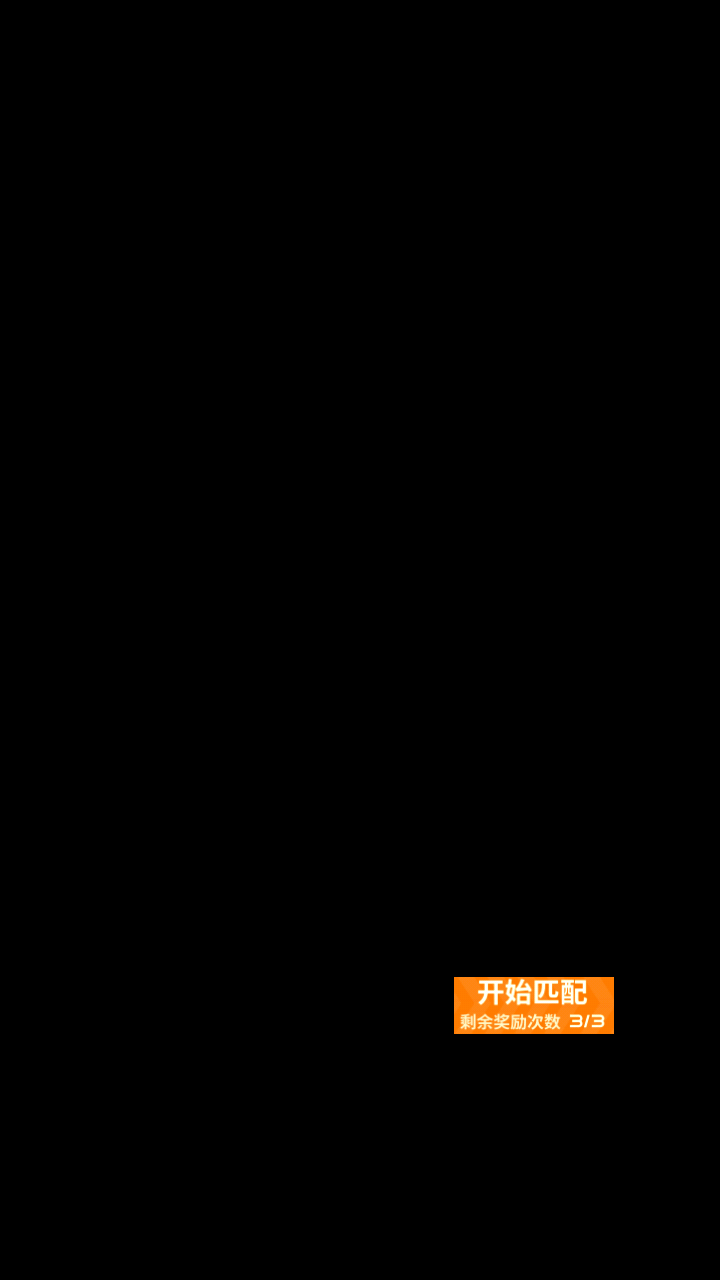
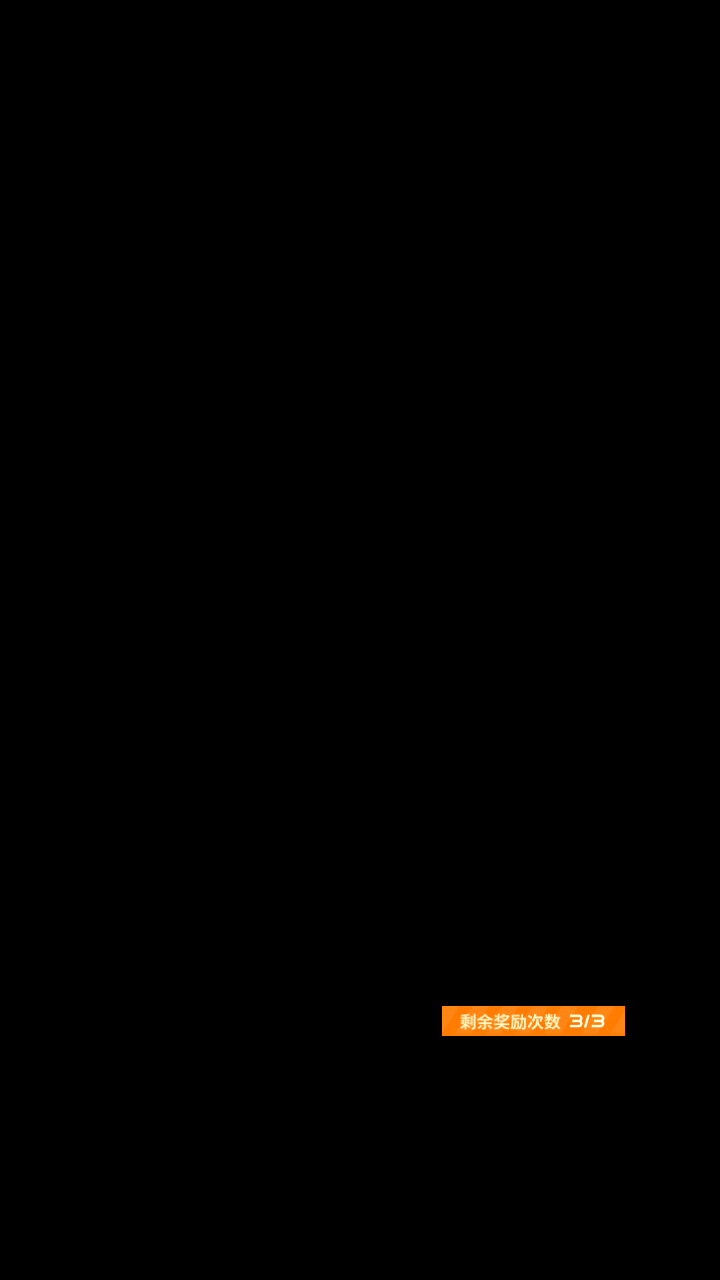
优化协同作战次数检查

Changed region(s): [[0.6111, 0.75, 0.8861, 0.8125]]

diff --git a/module/coop/assets.py b/module/coop/assets.py
@@ -16,5 +16,5 @@ DIFFICULTY_CONFIRM = Button(area={'cn': (334, 854, 385, 877)}, color={'cn': (120
 DIFFICULTY_NORMAL = Button(area={'cn': (180, 611, 248, 643)}, color={'cn': (155, 223, 255)}, button={'cn': (180, 611, 248, 643)}, file={'cn': './assets/cn/coop/DIFFICULTY_NORMAL.png'})
 DIFFICULTY_NORMAL_NOT_CHECKED = Button(area={'cn': (181, 611, 247, 643)}, color={'cn': (192, 193, 192)}, button={'cn': (181, 611, 247, 643)}, file={'cn': './assets/cn/coop/DIFFICULTY_NORMAL_NOT_CHECKED.png'})
 EVENT_BANNER = Button(area={'cn': (29, 121, 267, 187)}, color={'cn': (116, 74, 67)}, button={'cn': (29, 121, 267, 187)}, file={'cn': './assets/cn/coop/EVENT_BANNER.png'})
-FREE_OPPORTUNITY_CHECK = Button(area={'cn': (454, 977, 614, 1034)}, color={'cn': (255, 162, 66)}, button={'cn': (454, 977, 614, 1034)}, file={'cn': './assets/cn/coop/FREE_OPPORTUNITY_CHECK.png'})
+FREE_OPPORTUNITY_CHECK = Button(area={'cn': (442, 1006, 625, 1036)}, color={'cn': (255, 150, 44)}, button={'cn': (442, 1006, 625, 1036)}, file={'cn': './assets/cn/coop/FREE_OPPORTUNITY_CHECK.png'})
 SECECT_DIFFICULTY = Button(area={'cn': (282, 513, 408, 533)}, color={'cn': (170, 170, 170)}, button={'cn': (282, 513, 408, 533)}, file={'cn': './assets/cn/coop/SECECT_DIFFICULTY.png'})

diff --git a/module/coop/coop.py b/module/coop/coop.py
@@ -24,7 +24,7 @@ class Coop(UI):
             [FREE_OPPORTUNITY_CHECK.area],
             name='FREE_REMAIN',
             model_type=model_type,
-            lang='num',
+            lang='ch',
         )
         return int(FREE_REMAIN.ocr(self.device.image)['text'])
 
